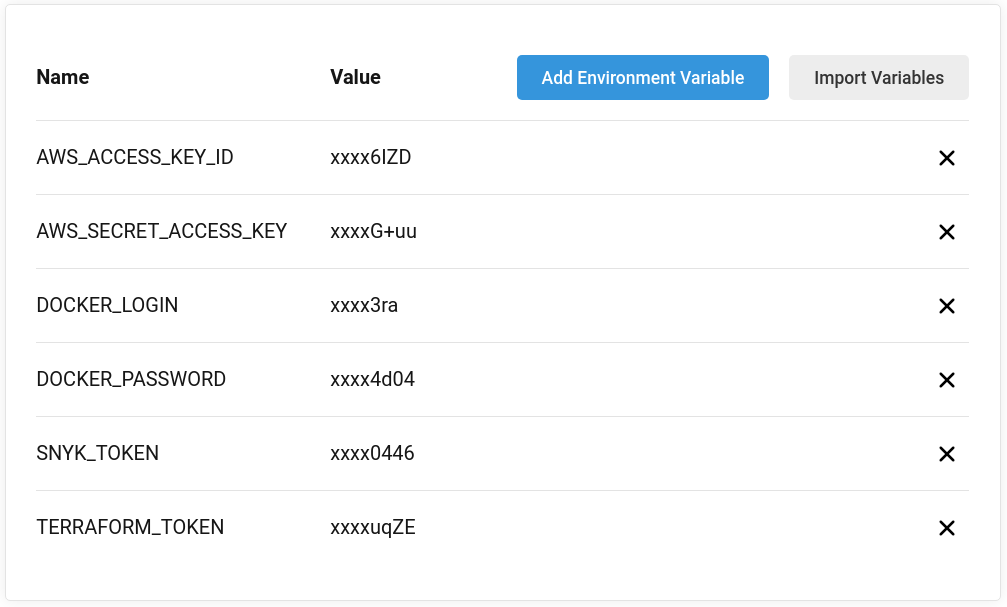
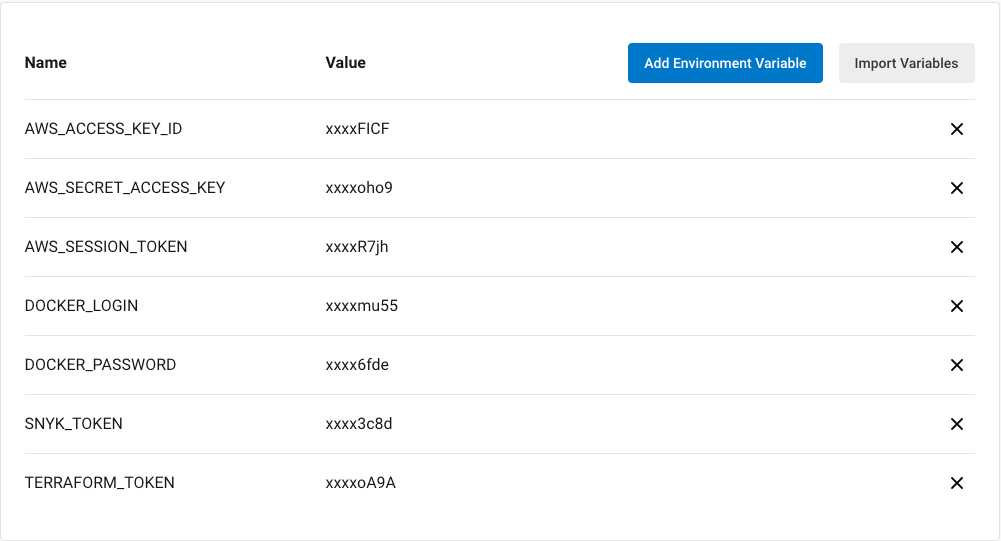
Updates to EE section, adding symlinks to new ECS in module 4.

diff --git a/content/020_event_engine_setup/28_config_workshop_req.ee.md b/content/020_event_engine_setup/28_config_workshop_req.ee.md
@@ -1,0 +1,52 @@
+---
+title: "5. Configure workshop specific requirements"
+chapter: true
+weight: 18
+---
+
+## Configure Workspace
+
+1. Return to your workspace and click the gear icon (in top right corner), or click to open a new tab and choose "Open Preferences"
+
+2. Select **AWS SETTINGS** and turn off **AWS managed temporary credentials**
+
+3. Close the Preferences tab
+
+   ![Turn off temp credentials](/images/setup/iamRoleWorkspace.gif)
+
+4. Copy and run (paste with **Ctrl+P** or **CMD+P**) the commands below.
+
+   Before running it, review what it does by reading through the comments.
+
+```sh    
+# Update awscli
+sudo pip install --upgrade awscli && hash -r
+
+# Install jq command-line tool for parsing JSON, and bash-completion
+sudo yum -y install jq gettext bash-completion moreutils
+
+# Install yq for yaml processing
+echo 'yq() {
+docker run --rm -i -v "${PWD}":/workdir mikefarah/yq yq "$@"
+}' | tee -a ~/.bashrc && source ~/.bashrc
+
+# Verify the binaries are in the path and executable
+for command in jq aws
+do
+  which $command &>/dev/null && echo "$command in path" || echo "$command NOT FOUND"
+done
+   
+# Remove existing credentials file.
+rm -vf ${HOME}/.aws/credentials
+   
+# Set the ACCOUNT_ID and the region to work with our desired region
+export AWS_REGION=$(curl -s 169.254.169.254/latest/dynamic/instance-identity/document | jq -r '.region')
+   test -n "$AWS_REGION" && echo AWS_REGION is "$AWS_REGION" || echo AWS_REGION is not set
+
+# Validate that our IAM role is valid.
+aws sts get-caller-identity --query Arn | grep CircleCI-Workshop-Admin -q && echo "IAM role valid" || echo "IAM role NOT valid"
+```
+
+   {{% notice warning %}}
+   If the IAM role is not valid, <span style="color: red;">**DO NOT PROCEED**</span>. Go back and confirm the steps on this page.
+   {{% /notice %}}

diff --git a/content/040_circleci_setup/45_github_fork_project.md b/content/040_circleci_setup/45_github_fork_project.md
@@ -20,11 +20,12 @@ Execute the code snippet below to create the SSH keys to access GitHub:
 
 ```bash
 # This is to generate a SSH public key on your Cloud9 machine
-# Press enter 3 times: do not rename the public key filename nor enter the passphrase
 ssh-keygen -t ed25519 -C "your_email@example.com"
 ```
 
-Next execute the below command and copy the output
+Press enter 3 times: do not rename the public key filename nor enter the passphrase.
+
+Next, execute the below command and copy the output
 ```
 # We're copying the public key value onto your clipboard 
 cat ~/.ssh/id_ed25519.pub
@@ -48,10 +49,10 @@ There are more details about [adding SSH Keys to GitHub here][3].
     
 3. Now that you have forked over the project repo, git clone it to your Cloud9 instance via **SSH** 
 
+The {YourGithubUserName} represents your GitHub user name
 ```bash
 # Command to clone the repo via SSH
-# The {YourGithubUserName} represents your GitHub user name
-git clone git@github.com:{YourGithubUserName}/aws-modernization-with-circleci.git
+git clone git@github.com:{YourGithubUserName}/aws-circleci-modernization-workshop-code.git
 ```
 
 Now that you have created new SSH Keys, assigned them in GitHub, and forked over the project repo, you can start setting up this project repo in CircleCI.

diff --git a/content/020_event_engine_setup/24_create_iam_role.ee.md b/content/020_event_engine_setup/24_create_iam_role.ee.md
@@ -1,0 +1,15 @@
+---
+title: "3. Create an IAM role for your workspace"
+chapter: false
+weight: 14
+---
+
+{{% notice info %}}
+Starting from here, when you see command to be entered such as below, you will enter these commands into Cloud9 IDE. You can use the **Copy to clipboard** feature (right hand upper corner) to simply copy and paste into Cloud9. In order to paste, you can use Ctrl + V for Windows or Command + V for Mac.
+{{% /notice %}}
+
+1. Follow [this deep link to create an IAM role with Administrator access.](https://console.aws.amazon.com/iam/home#/roles$new?step=review&commonUseCase=EC2%2BEC2&selectedUseCase=EC2&policies=arn:aws:iam::aws:policy%2FAdministratorAccess)
+1. Confirm that **AWS service** and **EC2** are selected, then click **Next** to view permissions.
+1. Confirm that **AdministratorAccess** is checked, then click **Next** to review.
+1. Enter `CircleCI-Workshop-Admin` for the Name, and select **Create Role**
+   ![createrole](/images/setup/createIAMrole.png)

diff --git a/content/040_circleci_setup/44_aws_access_keys.ee.md b/content/040_circleci_setup/44_aws_access_keys.ee.md
@@ -1,5 +1,5 @@
              ---
-title: "1.3 AWS: Create Access Keys"
+title: "1.4 AWS: Create Access Keys"
 chapter: true
 weight: 16
 ---
@@ -12,7 +12,13 @@ When you try to access your AWS console via Event Engine, you should see this:
 
 ![Access key](/images/ee-access-key.png)
 
-Copy the values for **AWS_ACCESS_KEY_ID** and **AWS_SECRET_ACCESS_KEY** to a local notepad or notes application.
+Copy the values for:
+
+- **AWS_ACCESS_KEY_ID**
+- **AWS_SECRET_ACCESS_KEY**
+- **AWS_SESSION_TOKEN** 
+
+to a local notepad or notes application. You will need these values so CircleCI can access your EE AWS account to create the CICD pipeline!
 
 {{% notice info %}}
 **Store the secret access key** in a safe place. Once you click out of the box, that key will **no longer** be accessible. You will have to delete that access key pair and generate a new one.

diff --git a/content/020_event_engine_setup/26_attach_iam_role.ee.md b/content/020_event_engine_setup/26_attach_iam_role.ee.md
@@ -1,0 +1,19 @@
+---
+title: "4. Attach IAM Role"
+chapter: true
+weight: 16
+---
+
+## Attach the IAM role to your instance
+
+Will need
+
+1. Follow [this deep link to find your Cloud9 EC2 instance](https://console.aws.amazon.com/ec2/v2/home?region=us-east-1#Instances:search=aws-cloud9-circleci-workshop;sort=desc:launchTime)
+
+1. Select the instance, then choose **Actions / Security / Modify IAM role**
+    ![Attach IAM role](/images/setup/attachIAMrole.png)
+
+1. Choose the role that we created in the previous step: CircleCI-Workshop-Admin.
+    ![Find IAM role](/images/setup/findIAMrole.png)
+
+1. Click **Save**

diff --git a/content/040_circleci_setup/46_circleci_setup.md b/content/040_circleci_setup/46_circleci_setup.md
@@ -35,6 +35,9 @@ Value: Your AWS IAM Accounts Access Key ID
 Name: AWS_SECRET_ACCESS_KEY 
 Value: Your AWS IAM Accounts Secret Access Key
 
+Name: AWS_SESSION_TOKEN
+Value: Your AWS IAM Accounts session token
+
 Name: DOCKER_LOGIN 
 Value: Your Docker Hub user name
 
@@ -44,7 +47,7 @@ Value: Your Docker Hub Access Token
 Name: SNYK_TOKEN 
 Value: Your Snyk Access Token
 
-Name:   TERRAFORM_TOKEN 
+Name: TERRAFORM_TOKEN 
 Value: Your Terraform Cloud API Token
 ```
 

diff --git a/content/020_event_engine_setup/_index.ee.md b/content/020_event_engine_setup/_index.ee.md
@@ -12,7 +12,8 @@ Welcome to the Event Engine Setup section! This means that you are attending an 
 Here is a preview of what we will be setting up:
 
 1. Creating a Cloud9 IDE Workspace
-1. Creating and attaching an IAM Role
-1. How to get the access/secret key for CircleCI's environment variable
+1. Creating an IAM Role
+1. Attaching an IAM Role
+1. Configuring Cloud9 Workspace
 
 The next page will show you how to gain access to your Event Engine dashboard!

diff --git a/content/080_module_4/86_trigger_pipeline.md b/content/080_module_4/86_trigger_pipeline.md
@@ -1,5 +1,5 @@
 ---
-title: "5.7 Trigger the CI/CD Pipeline"
+title: "5.6 Trigger the CI/CD Pipeline"
 chapter: true
 weight: 16
 ---

diff --git a/content/080_module_4/83_build_ecs_destroy_job.ee.md b/content/080_module_4/83_build_ecs_destroy_job.ee.md
@@ -1,0 +1,1 @@
+/Users/eugenemu/Documents/Workshops/aws-modernization-with-circleci/content/080_module_4/83_build_ecs_destroy_job.md

diff --git a/content/080_module_4/81_build_ecs_job.ee.md b/content/080_module_4/81_build_ecs_job.ee.md
@@ -1,0 +1,1 @@
+/Users/eugenemu/Documents/Workshops/aws-modernization-with-circleci/content/080_module_4/81_build_ecs_job.md

diff --git a/content/080_module_4/80_aws_ecs.ee.md b/content/080_module_4/80_aws_ecs.ee.md
@@ -1,0 +1,1 @@
+/Users/eugenemu/Documents/Workshops/aws-modernization-with-circleci/content/080_module_4/80_aws_ecs.md
